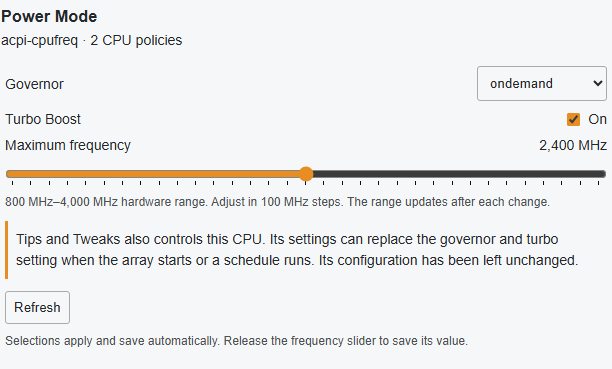
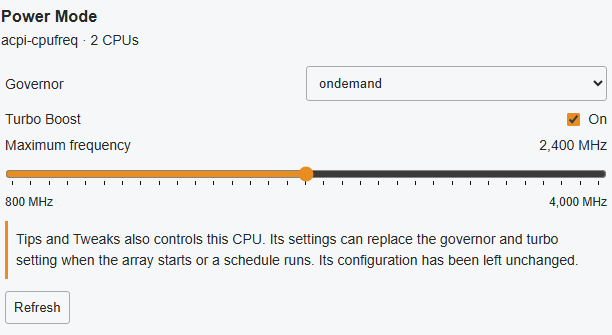
Tighten dashboard layout and replace slider explanations with endpoint values

diff --git a/src/javascript/power-mode.js b/src/javascript/power-mode.js
@@ -12,11 +12,11 @@
     let sliding = false;
     let revision = 0;
     const mhz = (khz) => `${(khz / 1000).toLocaleString(undefined, { maximumFractionDigits: 3 })} MHz`;
-    const message = (text) => { el('message').textContent = text; };
+    const message = (text) => { el('message').textContent = text; el('message').hidden = !text; };
     function render(next) {
       state = next;
       el('hardware').textContent = next.policies.length
-        ? `${next.drivers.join(', ')} · ${next.policies.length} CPU policies` : 'CPU frequency controls unavailable';
+        ? `${next.drivers.join(', ')} · ${next.policies.length} CPUs` : 'CPU frequency controls unavailable';
       el('governor').replaceChildren();
       if (next.governor === null) el('governor').add(new Option('Mixed / unavailable', '', true, true));
       next.governors.forEach((governor) => el('governor').add(new Option(governor, governor, false, next.governor === governor)));
@@ -32,6 +32,9 @@
       const selectable = freq.supported && lower <= upper;
       el('cap').disabled = busy || !selectable;
       el('cap-ticks').replaceChildren();
+      el('cap-low').textContent = selectable ? mhz(lower * 1000) : '—';
+      el('cap-high').textContent = selectable ? mhz(upper * 1000) : '—';
+      el('cap').title = '';
       if (selectable) {
         el('cap').min = String(lower);
         el('cap').max = String(upper);
@@ -40,10 +43,9 @@
           el('cap-ticks').append(new Option('', String(tick)));
         }
         el('cap-label').textContent = freq.cap_khz === null ? 'Mixed' : mhz(freq.cap_khz);
-        el('cap-info').textContent = `${mhz(freq.min_khz)}–${mhz(freq.max_khz)} hardware range. Adjust in 100 MHz steps. The range updates after each change.`;
       } else {
         el('cap-label').textContent = freq.cap_khz === null ? 'Unavailable' : mhz(freq.cap_khz);
-        el('cap-info').textContent = freq.supported
+        el('cap').title = freq.supported
           ? 'No 100 MHz step fits within the current hardware limits.'
           : 'No writable frequency ceiling with a shared range is exposed by this machine.';
       }
@@ -75,7 +77,7 @@
         // Do not overwrite edits made while the status request was in flight.
         if (busy || sliding || startedAt !== revision) return;
         render(next);
-        if (!quiet) message('Selections apply and save automatically. Release the frequency slider to save its value.');
+        if (!quiet) message('');
       } catch (error) { message(error.message); }
     }
     el('governor').addEventListener('change', () => apply('governor'));
@@ -121,12 +123,12 @@
       sliding = false;
       revision++;
       root.querySelectorAll('button, select, input').forEach((control) => { control.disabled = true; });
-      message('Applying CPU settings…');
+      message('Saving…');
       try {
         const next = await request(body);
         busy = false;
         render(next);
-        message(`Applied and saved. Effective frequency ceiling: ${next.frequency.effective_caps_khz.map(mhz).join(' / ') || 'unavailable'}.`);
+        message('');
       } catch (error) {
         busy = false;
         try { render(await request()); } catch (_) { if (state) render(state); }

diff --git a/src/styles/power-mode.css b/src/styles/power-mode.css
@@ -4,9 +4,11 @@
 #dashboard-power-mode button:disabled { cursor: default; }
 #dashboard-power-mode .dpm-row { display: flex; align-items: center; justify-content: space-between; flex-wrap: wrap; gap: 8px; margin: 10px 0; }
 #dashboard-power-mode select { max-width: 100%; margin: 0; min-width: 130px; }
+#dashboard-power-mode #dpm-governor { flex: 0 0 50%; width: 50%; max-width: 50%; min-width: 0; margin: 0 0 0 auto; box-sizing: border-box; }
 #dashboard-power-mode .dpm-toggle { display: inline-flex; align-items: center; gap: 8px; }
 #dashboard-power-mode input[type="checkbox"] { margin: 0; accent-color: #e78d22; }
 #dashboard-power-mode input[type="range"] { display: block; width: 100%; margin: 8px 0; accent-color: #e78d22; }
+#dashboard-power-mode .dpm-limits { display: flex; justify-content: space-between; font-size: 12px; line-height: 1.5; }
 #dashboard-power-mode .dpm-note { font-size: 12px; line-height: 1.5; opacity: .8; margin: 8px 0; }
 #dashboard-power-mode .dpm-warning { padding: 8px; border-left: 3px solid #e78d22; line-height: 1.5; margin: 10px 0; }
 #dashboard-power-mode .dpm-actions { display: flex; gap: 8px; margin-top: 12px; }

diff --git a/tests/dashboard.py b/tests/dashboard.py
@@ -25,7 +25,7 @@ reject = False
 
 with sync_playwright() as p:
     browser = p.chromium.launch(headless=True)
-    page = browser.new_page(viewport={'width': 640, 'height': 850})
+    page = browser.new_page(viewport={'width': 640, 'height': 850}, locale='en-US')
     errors = []
     page.on('pageerror', lambda error: errors.append(str(error)))
 
@@ -56,7 +56,7 @@ with sync_playwright() as p:
     page.goto('http://power-mode.test/')
     page.evaluate("window.csrf_token = 'synthetic-test-token'")
     page.add_style_tag(path=str(ROOT / 'src/styles/power-mode.css'))
-    page.add_style_tag(content='body { margin: 12px; background:#f6f7f8; color:#25282b; font:14px Arial,sans-serif; } table { width:100%; } button,select { padding:8px; border:1px solid #aaa; border-radius:3px; background:transparent; color:inherit; } h3 { margin:6px 0; }')
+    page.add_style_tag(content='body { margin: 12px; background:#f6f7f8; color:#25282b; font:14px Arial,sans-serif; } table { width:100%; } select { width:100%; min-width:300px; } button,select { padding:8px; border:1px solid #aaa; border-radius:3px; background:transparent; color:inherit; } h3 { margin:6px 0; }')
     page.add_script_tag(path=str(ROOT / 'src/javascript/power-mode.js'))
     card = page.locator('#dashboard-power-mode')
     message = card.locator('[data-dpm="message"]')
@@ -67,6 +67,16 @@ with sync_playwright() as p:
     expect(card.locator('[data-dpm="cap"]')).to_have_attribute('step', '100')
     assert card.locator('[data-dpm="cap-ticks"] option').count() == 33
     assert not posts
+    expect(message).to_be_hidden()
+    expect(card.locator('[data-dpm="hardware"]')).to_contain_text('2 CPUs')
+    expect(card.locator('[data-dpm="cap-low"]')).to_have_text('800 MHz')
+    expect(card.locator('[data-dpm="cap-high"]')).to_have_text('4,000 MHz')
+    assert card.locator('[data-dpm="cap-info"]').count() == 0
+    for width in (375, 640):
+        page.set_viewport_size({'width': width, 'height': 850})
+        box = card.locator('[data-dpm="governor"]').evaluate('el => { const s=el.getBoundingClientRect(), r=el.parentElement.getBoundingClientRect(); return { width:s.width, rowWidth:r.width, right:s.right, rowRight:r.right }; }')
+        assert abs(box['width'] - box['rowWidth'] / 2) <= 1
+        assert abs(box['right'] - box['rowRight']) <= 1
     # Capture a privacy-safe preview before changing the synthetic state.
     if args.screenshot:
         (ROOT / 'docs').mkdir(exist_ok=True)
@@ -76,12 +86,14 @@ with sync_playwright() as p:
     page.wait_for_timeout(30)
     assert not posts, 'Selecting the current value must not write to flash'
     card.locator('[data-dpm="governor"]').select_option('performance')
-    expect(message).to_contain_text('Applied and saved')
+    expect(card.locator('[data-dpm="governor"]')).to_be_enabled()
+    expect(message).to_be_hidden()
     assert posts[-1] == {'governor': 'performance'}
     expect(card.locator('[data-dpm="cap"]')).to_have_attribute('min', '1300')
     expect(card.locator('[data-dpm="cap"]')).to_have_attribute('max', '2800')
+    expect(card.locator('[data-dpm="cap-low"]')).to_have_text('1,300 MHz')
+    expect(card.locator('[data-dpm="cap-high"]')).to_have_text('2,800 MHz')
     card.locator('[data-dpm="governor"]').select_option('powersave')
-    expect(message).to_contain_text('Applied and saved')
     expect(card.locator('[data-dpm="governor"]')).to_be_enabled()
     assert posts[-1] == {'governor': 'powersave'}
     card.locator('[data-dpm="turbo"]').uncheck()
@@ -119,7 +131,7 @@ with sync_playwright() as p:
     state['frequency'].update(min_khz=1250000, max_khz=1290000, cap_khz=1270000)
     card.locator('[data-dpm="refresh"]').click()
     expect(card.locator('[data-dpm="cap"]')).to_be_disabled()
-    expect(card.locator('[data-dpm="cap-info"]')).to_contain_text('No 100 MHz step')
+    expect(card.locator('[data-dpm="cap"]')).to_have_attribute('title', re.compile('No 100 MHz step'))
     state['frequency'].update(min_khz=800000, max_khz=4000000, cap_khz=2000000)
     state['turbo']['supported'] = False
     card.locator('[data-dpm="refresh"]').click()

diff --git a/build.py b/build.py
@@ -7,7 +7,7 @@ import xml.etree.ElementTree as ET
 
 ROOT = Path(__file__).resolve().parent
 NAME = 'dashboard-power-mode'
-VERSION = '2026.11.15.2'
+VERSION = '2026.11.15.3'
 TARGET = f'/usr/local/emhttp/plugins/{NAME}'
 URL = f'https://raw.githubusercontent.com/johnngone/{NAME}-unraid/main/plugin/{NAME}.plg'
 
@@ -24,8 +24,8 @@ def build():
         'pluginURL': URL, 'support': f'https://github.com/johnngone/{NAME}-unraid/issues',
     })
     ET.SubElement(plugin, 'CHANGES').text = (
-        'Use a Turbo Boost checkbox and a frequency slider with 100 MHz notches.\n'
-        'Remove redundant power preset buttons; refresh limits after each change.\n'
+        'Right-align a half-width governor selector and simplify CPU labels.\n'
+        'Show slider endpoint values without idle explanatory text.\n'
         'Hardware detection, persistent settings, and Tips and Tweaks conflict detection.\n'
     )
     # pathlib orders paths case-insensitively on Windows. Use explicit POSIX
